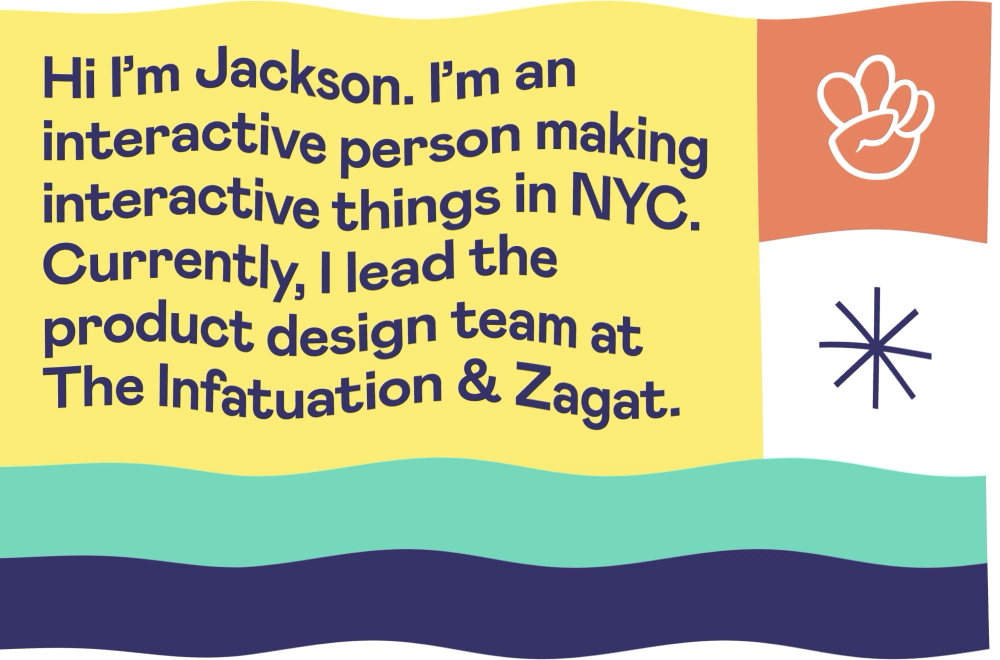
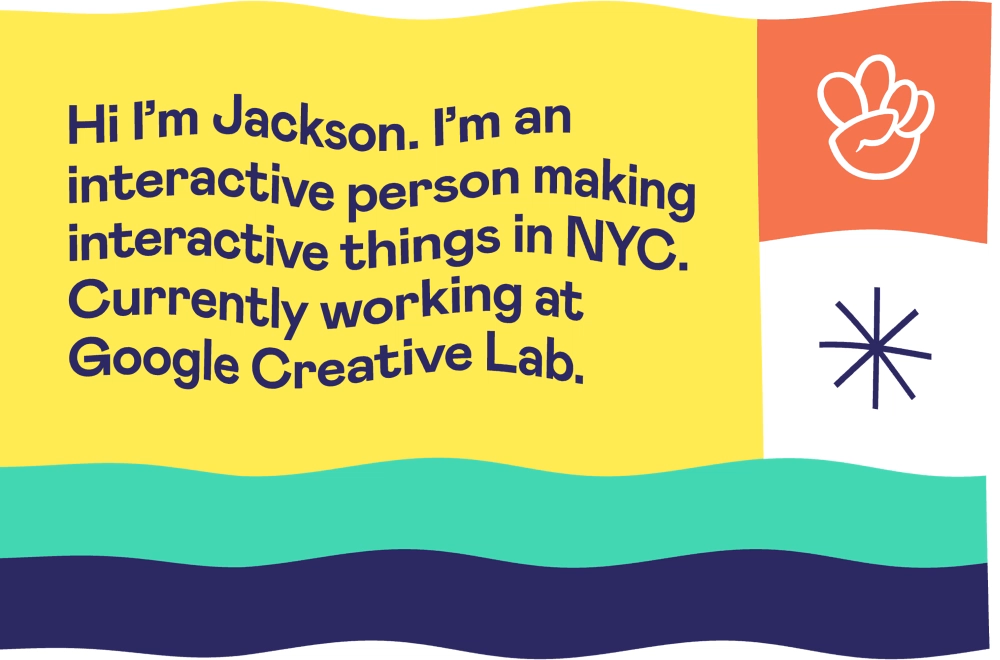
Updated information to include GCL

diff --git a/_includes/about.html b/_includes/about.html
@@ -10,7 +10,7 @@
   </div>
   <div class='about__body'>
     <div class='about__body__text'>
-      I am a multi-disciplinary designer and design leader who specializes in starting things from scratch. I have a degree in graphic design and over 7 years of professional design experience, working on digital products, websites, branding and events. I’ve spent time designing at <a href="https://work.co/">Work & Co</a>, <a href="https://www.kickstarter.com/">Kickstarter</a>, and <a href="https://friendsoftheweb.com/">Friends of The Web</a>. I am proudly black, proudly queer, and I bring an expanded worldview to every team and every project I work on. I’m a happy New Yorker, avid podcast listener, great at 'naming that actor.' My favorite foods are of the dumpling variety: soup dumplings, pierogies, samosas; you know the type.
+      I am a multi-disciplinary designer and design leader who specializes in starting things from scratch. I have a degree in graphic design and over 7 years of professional design experience, working on digital products, websites, branding and events. I was previously the Director of Product Design at <a href="https://theinfatuation.com/ ">The Infatuation</a> & <a href="https://www.zagat.com/">Zagat</a>. Before that, I’ve spent time designing at <a href="https://work.co/">Work & Co</a>, <a href="https://www.kickstarter.com/">Kickstarter</a>, and <a href="https://friendsoftheweb.com/">Friends of The Web</a>. I am proudly black, proudly queer, and I bring an expanded worldview to every team and every project I work on. I’m a happy New Yorker, avid podcast listener, great at 'naming that actor.' My favorite foods are of the dumpling variety: soup dumplings, pierogies, samosas; you know the type.
     </div>
     <div class='about__body__title'>
       Skills that pay the bills

diff --git a/_includes/intro.html b/_includes/intro.html
@@ -20,7 +20,7 @@
   <div class="flag__wrapper">
     <div class="flag__container">
       <video autoplay muted playsinline loop preload poster="/assets/images/Flag.png">
-        <source type="video/mp4" src="https://dl.dropboxusercontent.com/s/tdphw0mxo408r4h/Flag.mp4">
+        <source type="video/mp4" src="https://dl.dropboxusercontent.com/s/if1k94whv5k5r1g/Flag.mp4">
       </video>
     </div>
   </div>
